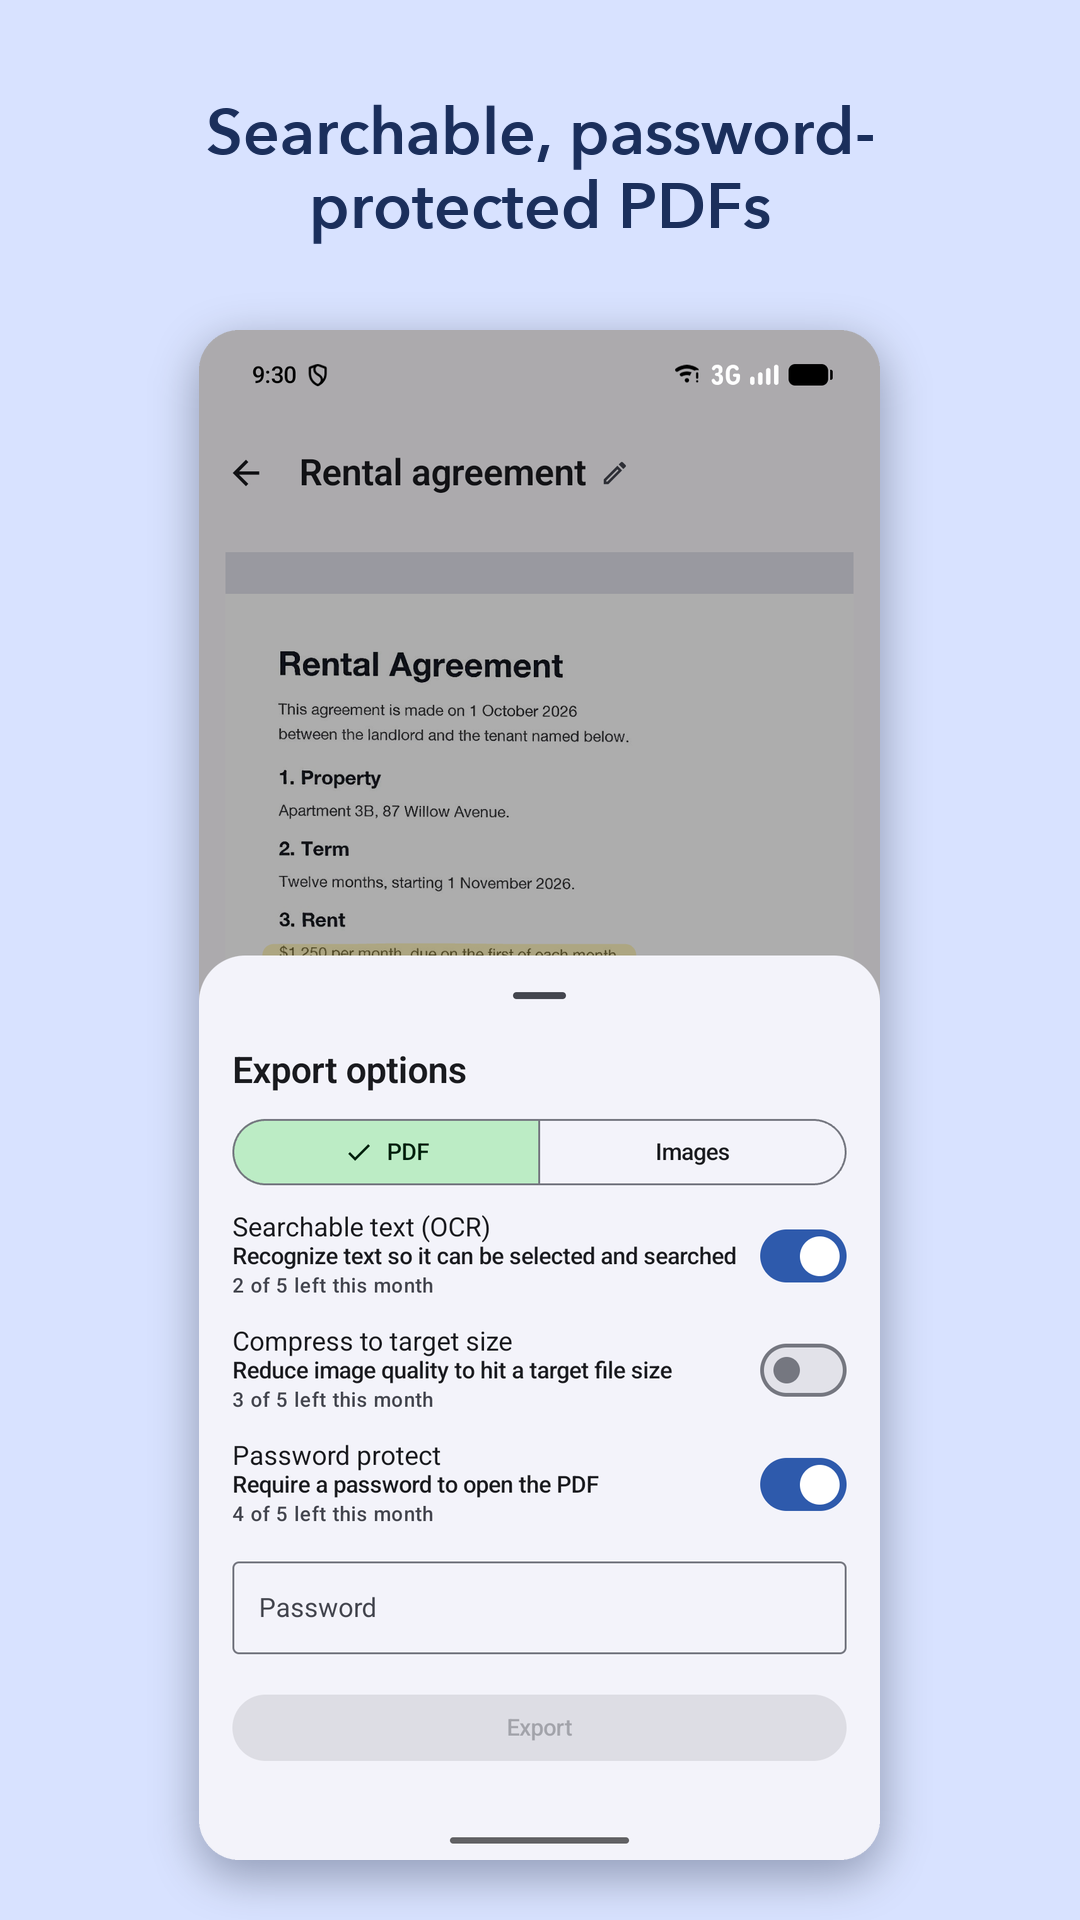
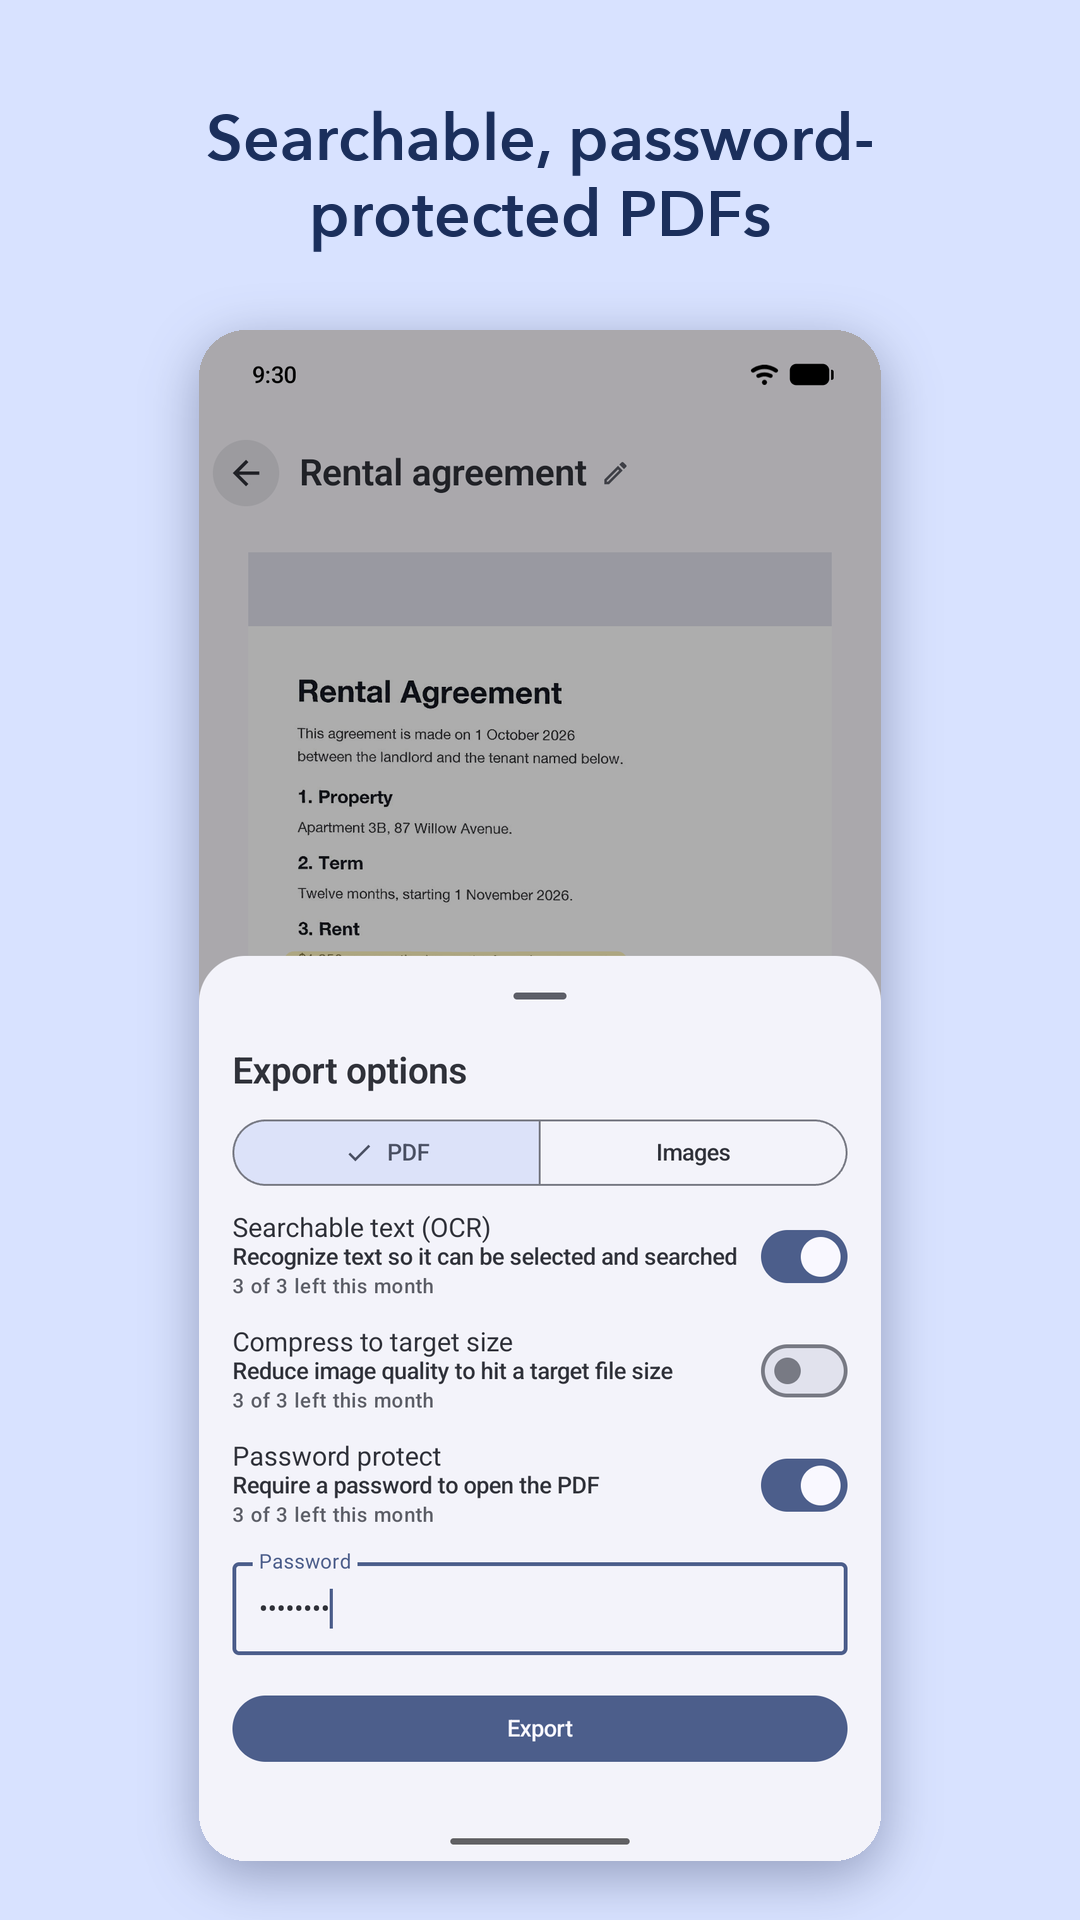
Retake the store screenshots and add one of the welcome slides
The old set predated the free limit of 3 (the export sheet said 'of 5
left'), the onboarding and the new in-app logo, and its status bar showed
a stray '3G' and a Safety Center shield. All seven are retaken from the
release build on the Android 17 emulator with a clean demo-mode status
bar, framed as before, plus 07-welcome.

diff --git a/docs/play-store/listing.md b/docs/play-store/listing.md
@@ -79,4 +79,4 @@ Welcome to Papr! Scan documents, make them searchable, sign and mark them up, an
 |---|---|---|
 | App icon | `icon-512.png` | 512 × 512 PNG, 32-bit |
 | Feature graphic | `feature-graphic.png` | 1024 × 500 PNG/JPG, no alpha |
-| Phone screenshots | `screenshots/01-home.png` … `06-dark.png` | 6 images, 1080 × 1920 (9:16; Play allows at most 2:1) |
+| Phone screenshots | `screenshots/01-home.png` … `07-welcome.png` | 7 images, 1080 × 1920 (9:16; Play allows at most 2:1). Retaken 2026-10-07 from the release build on the Android 17 emulator, demo-mode status bar |
